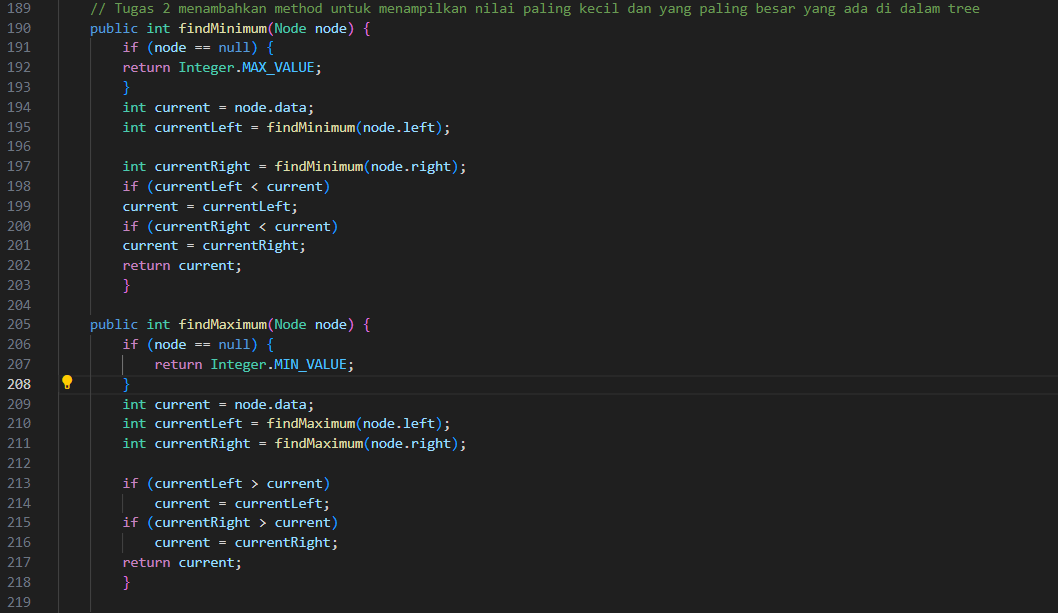
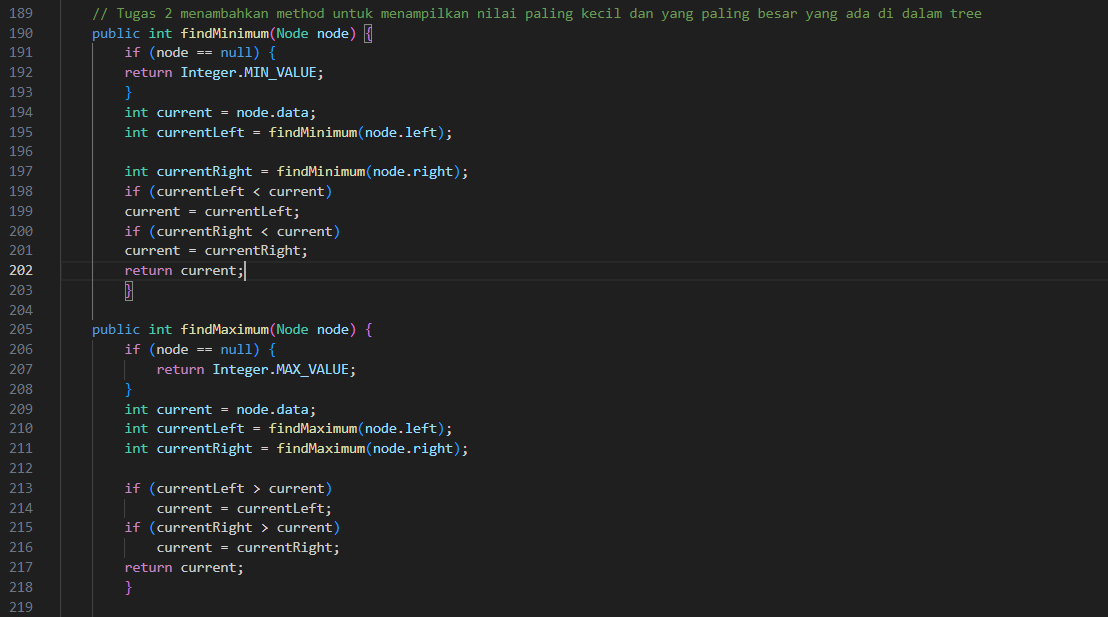
upload kesebelas

diff --git a/Pertemuan11/Praktikum1/BinaryTree.java b/Pertemuan11/Praktikum1/BinaryTree.java
@@ -187,35 +187,29 @@ public class BinaryTree {
     }
 
     // Tugas 2 menambahkan method untuk menampilkan nilai paling kecil dan yang paling besar yang ada di dalam tree
-    public int findMinimum(Node node) {
-        if (node == null) {
-        return Integer.MAX_VALUE;
-        }
-        int current = node.data;
-        int currentLeft = findMinimum(node.left);
-        
-        int currentRight = findMinimum(node.right);
-        if (currentLeft < current)
-        current = currentLeft;
-        if (currentRight < current)
-        current = currentRight;
-        return current;
-        }
-
-    public int findMaximum(Node node) {
-        if (node == null) {
+    public int findMinimum() {
+        if (root == null) {
+            System.out.println("Tree masih kosong!");
             return Integer.MIN_VALUE;
         }
-        int current = node.data;
-        int currentLeft = findMaximum(node.left);
-        int currentRight = findMaximum(node.right);
-        
-        if (currentLeft > current)
-            current = currentLeft;
-        if (currentRight > current)
-            current = currentRight;
-        return current;
+        Node current = root;
+        while(current.left != null){
+            current = current.left;
         }
+        return current.data;
+    }
+
+    public int findMaximum() {
+        if (root == null) {
+            System.out.println("Tree masih kosong!");
+            return Integer.MAX_VALUE;
+        }
+        Node current = root;
+        while(current.right != null){
+            current = current.right;
+        }
+        return current.data;
+    }
 
     // Tugas 3 menambahkan method untuk menampilkan data yang ada di leaf
     void printLeaf(Node root) {

diff --git a/Pertemuan11/Praktikum1/BinaryTreeMain.java b/Pertemuan11/Praktikum1/BinaryTreeMain.java
@@ -30,8 +30,8 @@ public class BinaryTreeMain {
 
         // Tugas 2 menambahkan method untuk menampilkan nilai paling kecil dan yang paling besar yang ada di dalam tree
         System.out.println("---------------------------------");
-        int min = bt.findMinimum(bt.root);
-        int max = bt.findMaximum(bt.root);
+        int min = bt.findMinimum();
+        int max = bt.findMaximum();
 
         System.out.println("Nilai paling kecil: " + min);
         System.out.println("Nilai paling besar: " + max);
